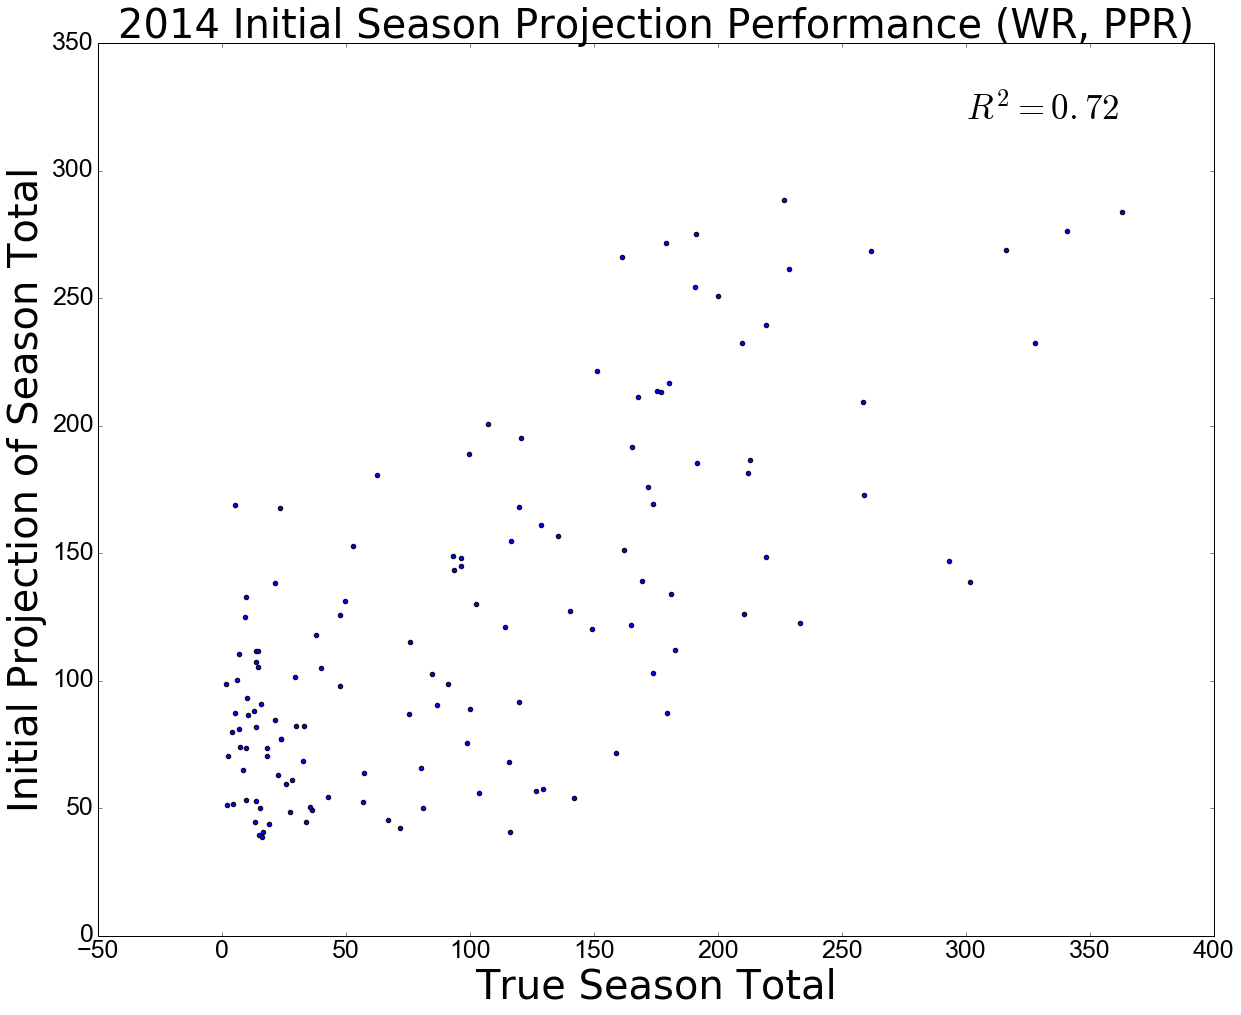
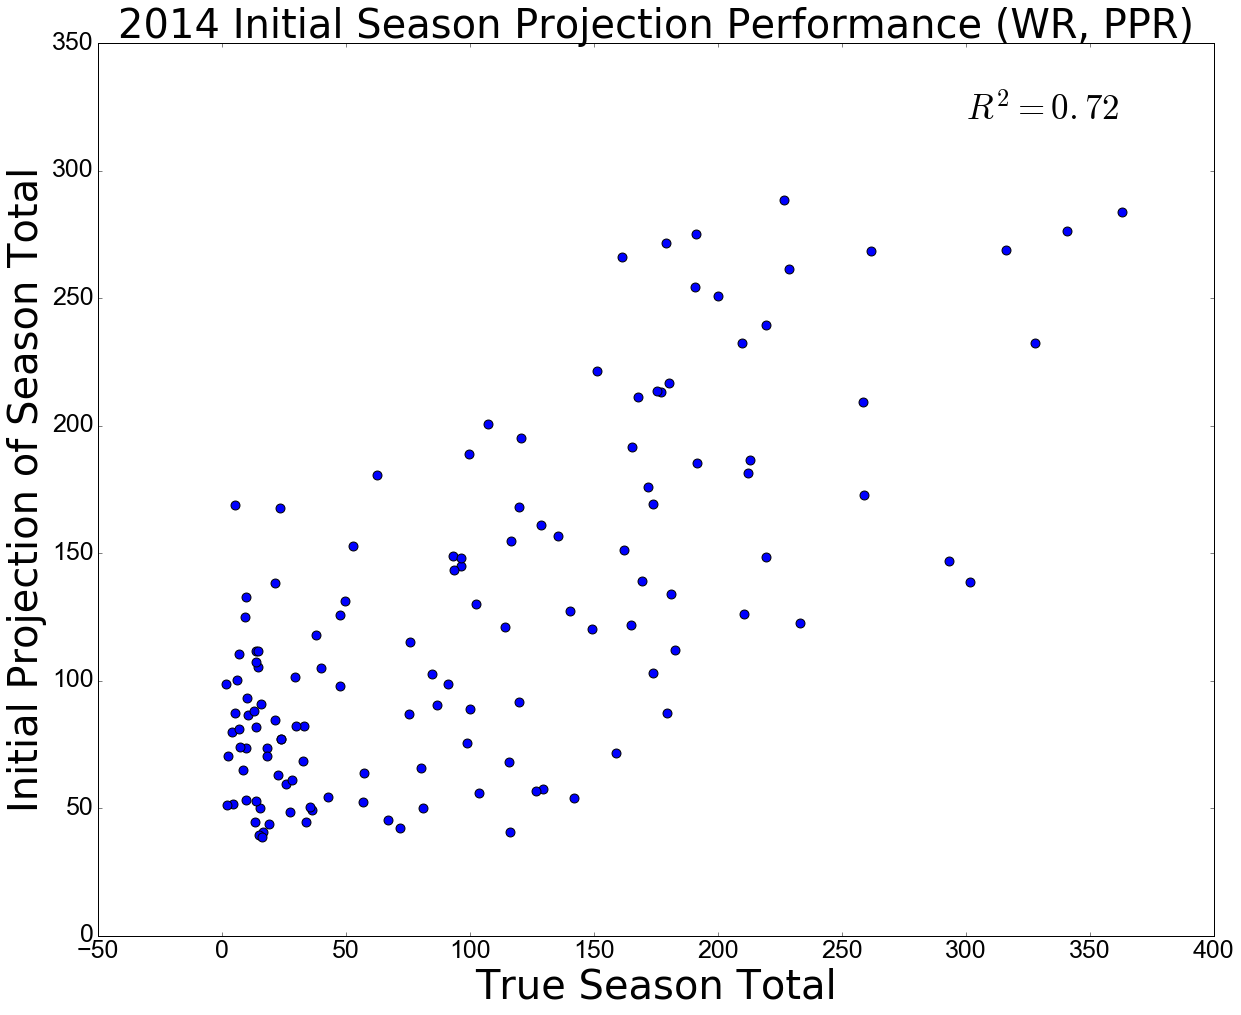
R2 plots

diff --git a/_site/2016/08/31/Fantasy-Football-Preview/index.html b/_site/2016/08/31/Fantasy-Football-Preview/index.html
@@ -211,6 +211,8 @@
 
 <p>In the above table, “Season Projections” refers the performance of the model as the NFL stats update throughout the season. In this case, the stat averages are updated on a weekly basis and are used to predict the next week’s outcome.  This allows the model to improve it’s predictions as the season plays out, and results in extremely high performance (<script type="math/tex">R^2>0.95</script> for all positions) on the total points predicted for each player at the end of the season.</p>
 
+<p><img src="https://raw.githubusercontent.com/Raknoche/Raknoche.github.io/master/_posts/Images/FF_PPR/InitialSeasonProjectionWR.png" alt="png" /></p>
+
 <p>The “Initial Season Projections” refer to the season-long projections using only information that is available at the beginning of the 2014 season.  In other words, all of the stat averages come from the previous season and are projected throughout the entire 2016 season.  This is the metric to use when evaluating the performance of our model for the 2016 draft at the start of the fantasy football season.  We see that the model’s performance varies depending on the player’s position.  It can explain 72% of the variation in season-long wide receiver performance, 71% of the variation in season-long tight end performance, 67% of the variation in season-long quarterback performance, and 54% of the variation in season-long running back performance.</p>
 
 <p>The “Week-by-Week Projections” refer to the performance of our model on a week-by-week basis.  Player’s often underperform or over perform during a particular game, so the <script type="math/tex">R^2</script> values of our model are much lower on a week-by-week basis than a season-long basis. Still, our model’s week-by-week average <script type="math/tex">R^2</script> value of about 0.475 is better than the many professional sites projections. (<a href="http://fantasyfootballanalytics.net/2016/03/best-fantasy-football-projections-2016-update.html">Source from FantasyFootballAnalytics</a>)</p>

diff --git a/_posts/2016-08-31-Fantasy-Football-Preview.md b/_posts/2016-08-31-Fantasy-Football-Preview.md
@@ -28,6 +28,8 @@ Here are the $$R^2$$ results for the model for the sequestered 2014 season, usin
 
 In the above table, "Season Projections" refers the performance of the model as the NFL stats update throughout the season. In this case, the stat averages are updated on a weekly basis and are used to predict the next week's outcome.  This allows the model to improve it's predictions as the season plays out, and results in extremely high performance ($$R^2>0.95$$ for all positions) on the total points predicted for each player at the end of the season.
 
+![png](https://raw.githubusercontent.com/Raknoche/Raknoche.github.io/master/_posts/Images/FF_PPR/InitialSeasonProjectionWR.png)
+
 The "Initial Season Projections" refer to the season-long projections using only information that is available at the beginning of the 2014 season.  In other words, all of the stat averages come from the previous season and are projected throughout the entire 2016 season.  This is the metric to use when evaluating the performance of our model for the 2016 draft at the start of the fantasy football season.  We see that the model's performance varies depending on the player's position.  It can explain 72% of the variation in season-long wide receiver performance, 71% of the variation in season-long tight end performance, 67% of the variation in season-long quarterback performance, and 54% of the variation in season-long running back performance.
 
 The "Week-by-Week Projections" refer to the performance of our model on a week-by-week basis.  Player's often underperform or over perform during a particular game, so the $$R^2$$ values of our model are much lower on a week-by-week basis than a season-long basis. Still, our model's week-by-week average $$R^2$$ value of about 0.475 is better than the many professional sites projections. ([Source from FantasyFootballAnalytics](http://fantasyfootballanalytics.net/2016/03/best-fantasy-football-projections-2016-update.html))
